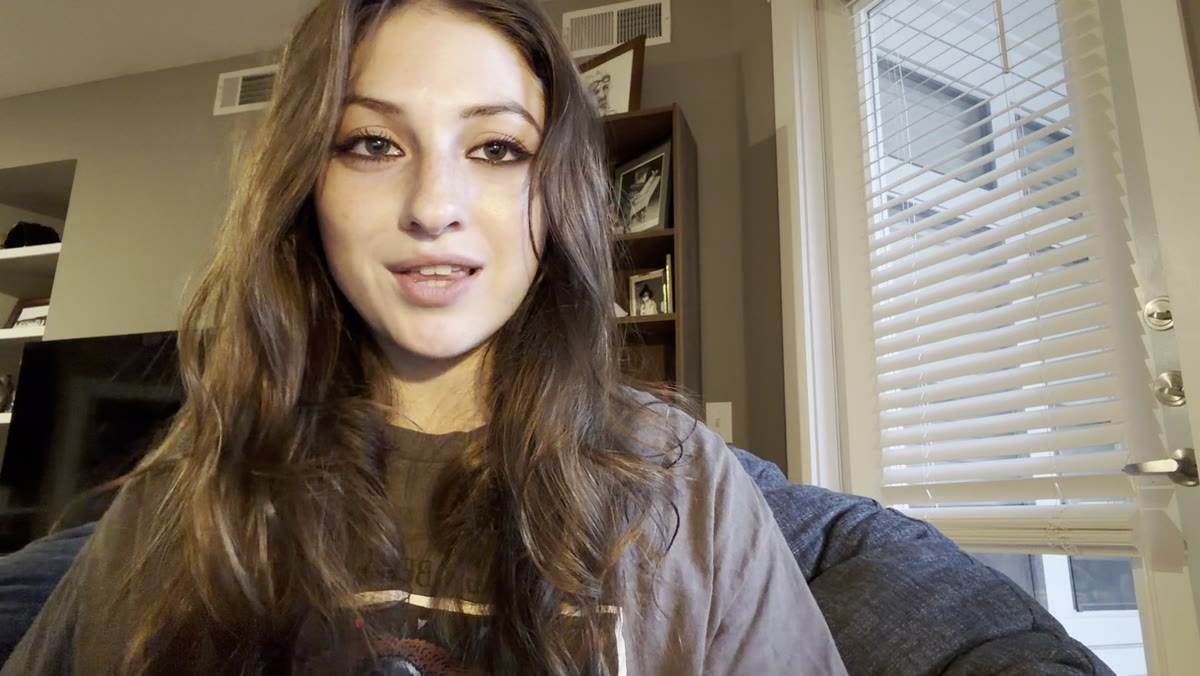
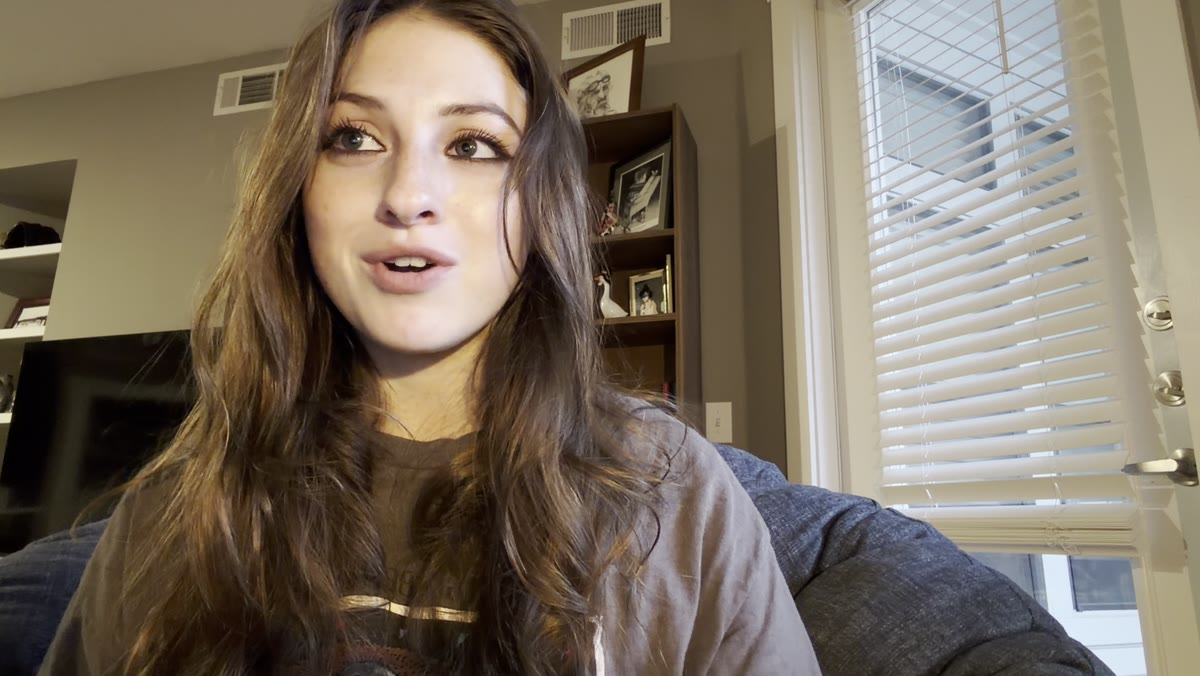
Research page: interview takeaways and new Catherine still

diff --git a/research/index.html b/research/index.html
@@ -210,15 +210,17 @@
     <!-- Rows, a title and a line -->
     <div class="part">
       <div class="part-side">
-        <h3 class="display-6">Headline</h3>
-        <p class="body">Body copy. Two or three sentences that explain the headline in plain words.</p>
+        <h3 class="display-6">Main takeaways.</h3>
+        <p class="body">The patterns that kept coming up across our ten conversations.</p>
       </div>
       <div class="part-main">
         <div class="rows">
-          <div class="row"><h4 class="display-5">Row title</h4><p class="body-small">A line of supporting copy.</p></div>
-          <div class="row"><h4 class="display-5">Row title</h4><p class="body-small">A line of supporting copy.</p></div>
-          <div class="row"><h4 class="display-5">Row title</h4><p class="body-small">A line of supporting copy.</p></div>
-          <div class="row"><h4 class="display-5">Row title</h4><p class="body-small">A line of supporting copy.</p></div>
+          <div class="row"><h4 class="display-5">Everyone has lost a plant.</h4><p class="body-small">10 of 10 told a failure story. 6 of 10 couldn’t say what went wrong.</p></div>
+          <div class="row"><h4 class="display-5">The hard part starts after planting.</h4><p class="body-small">9 of 10 struggle with care, not choosing or planting. Watering comes up most.</p></div>
+          <div class="row"><h4 class="display-5">AI is the first stop.</h4><p class="body-small">6 of 10 ask ChatGPT or Claude before anyone else. 4 of 10 go with whatever it says.</p></div>
+          <div class="row"><h4 class="display-5">Gardening runs in the family.</h4><p class="body-small">8 of 10 learned from family, usually a parent or grandparent.</p></div>
+          <div class="row"><h4 class="display-5">Seed isn’t about saving money.</h4><p class="body-small">0 of 10 chose seed because it’s cheaper. They grow from seed for the fun, the pride or the tradition.</p></div>
+          <div class="row"><h4 class="display-5">No one named a plant brand.</h4><p class="body-small">0 of 10 mentioned Bonnie or any plant brand on their own.</p></div>
         </div>
       </div>
     </div>
